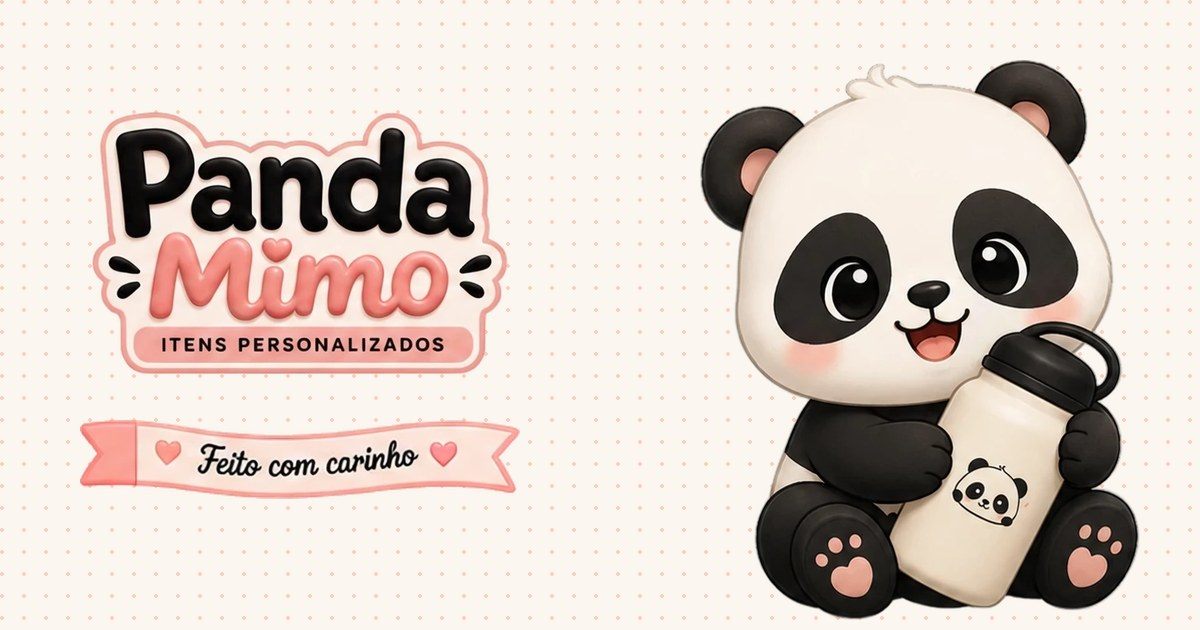
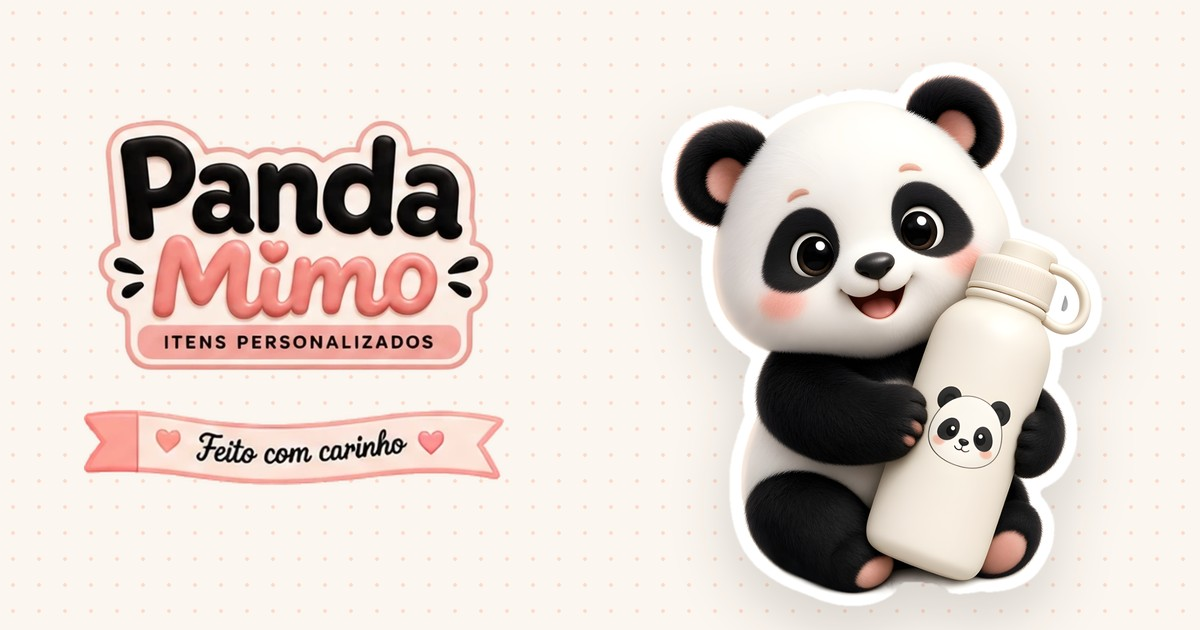
feat(marca): Pandinha em cena (3D) no hero, na imagem de compartilhamento e na 404
Seis poses do Pandinha 3D entram em marca/kit/pandinha-3d/ (PNG com alpha
real, lado maior 2000 px): fundo removido por segmentação, borda limpa e
ampliação Real-ESRGAN com o modelo de foto, que preserva o pelo. O hero do
site, o og.jpg e a página 404 passam a usar a versão em cena, conforme a
seção 6.5 do manual (versão 1.8). O hero adesivo anterior e o og anterior
(og-adesivo.jpg) continuam no acervo.

Claude-Session: https://claude.ai/code/session_01LUHnjXVrB14Zo46Cd7b8mY

Changed region(s): [[0.555, 0.0905, 0.9558, 0.9952], [0.0617, 0.181, 0.4317, 0.6032], [0.0617, 0.6333, 0.4317, 0.8143]]

diff --git a/panda-mimo/marca/index.html b/panda-mimo/marca/index.html
@@ -233,7 +233,7 @@
 <header class="capa">
   <div class="wrap capa__grid">
     <div>
-      <p class="eyebrow">Manual da marca · versão 1.7 · set/2026</p>
+      <p class="eyebrow">Manual da marca · versão 1.8 · set/2026</p>
       <h1>Panda Mimo, <span class="hand">feito com carinho.</span></h1>
       <p class="lede">Este é o brand book da Panda Mimo. Ele registra o que a marca é, como fala, como se veste e como se comporta em cada ponto de contato, a partir da identidade já aprovada e aplicada no site.</p>
       <p class="small muted" style="margin-top:.8rem">Quem manda, nesta ordem: o dono da marca, este manual, o código do site. A versão em texto, com todas as regras e tabelas, está em <code>MARCA.md</code>. Todas as diretrizes foram validadas pelo dono da marca em setembro de 2026.</p>
@@ -769,7 +769,7 @@
 <footer>
   <div class="wrap" style="display:flex;justify-content:space-between;gap:1rem;flex-wrap:wrap;align-items:center">
     <img src="../assets/logo-pill.webp" alt="Panda Mimo" width="900" height="254" style="width:150px">
-    <p>Manual da marca · versão 1.7 · setembro de 2026 · <span class="hand" style="font-size:1.15rem">feito com carinho, feito pra você.</span></p>
+    <p>Manual da marca · versão 1.8 · setembro de 2026 · <span class="hand" style="font-size:1.15rem">feito com carinho, feito pra você.</span></p>
   </div>
 </footer>
 

diff --git a/panda-mimo/index.html b/panda-mimo/index.html
@@ -108,7 +108,7 @@
         <img class="heart-img" src="assets/coracao-costura.webp" alt="" width="804" height="704" aria-hidden="true">
         <span class="heart heart--b" aria-hidden="true"></span>
         <span class="heart heart--c" aria-hidden="true"></span>
-        <img class="hero__mascot" src="assets/mascote-hero.webp" srcset="assets/mascote-hero.webp 1x, assets/mascote-hero@2x.webp 2x" alt="Mascote da Panda Mimo: um panda sorridente abraçando uma garrafa térmica personalizada" width="707" height="900" fetchpriority="high">
+        <img class="hero__mascot" src="assets/mascote-hero-3d.webp" srcset="assets/mascote-hero-3d.webp 1x, assets/mascote-hero-3d@2x.webp 2x" alt="Pandinha, o mascote da Panda Mimo, abraçando uma garrafa térmica personalizada" width="707" height="854" fetchpriority="high">
         <img class="hero__tag" src="assets/tag-especial.webp" alt="Etiqueta: feito especialmente para você!" width="482" height="900">
       </figure>
     </div>

diff --git a/panda-mimo/404.html b/panda-mimo/404.html
@@ -23,7 +23,7 @@
 <body>
 <main class="erro">
   <div>
-    <img src="https://reinaldo3010.github.io/Claude-desk/assets/panda-dormindo.webp" alt="Pandinha dormindo" width="900" height="562">
+    <img src="https://reinaldo3010.github.io/Claude-desk/assets/panda3d-dormindo.webp" srcset="https://reinaldo3010.github.io/Claude-desk/assets/panda3d-dormindo.webp 1x, https://reinaldo3010.github.io/Claude-desk/assets/panda3d-dormindo@2x.webp 2x" alt="Pandinha dormindo" width="900" height="655">
     <p class="eyebrow"><span class="eyebrow__dot"></span> Página não encontrada <span class="eyebrow__dot"></span></p>
     <h1>Essa página tirou <span class="hand">uma soneca.</span></h1>
     <p>O endereço não existe ou mudou de lugar. Volta pro início que a gente te mostra os mimos.</p>

diff --git a/panda-mimo/MARCA.md b/panda-mimo/MARCA.md
@@ -1,6 +1,6 @@
 # Manual da marca Panda Mimo
 
-Versão 1.7 · setembro de 2026 · documento vivo
+Versão 1.8 · setembro de 2026 · documento vivo
 
 Este é o brand book da **Panda Mimo**, marca de itens personalizados. Ele registra o que a marca é,
 como fala, como se veste e como se comporta em cada ponto de contato. Foi escrito a partir da
@@ -320,6 +320,21 @@ Regras dos dois planos:
    `panda3d-<pose>.png`. Xadrez desenhado na imagem não é transparência e não é aceito.
 6. No site, a versão 3D segue as mesmas regras de foto (10.1): inteiro, com folga, versão @2x.
 
+Poses em cena no acervo (`marca/kit/pandinha-3d/`, PNG com alpha, lado maior 2000 px):
+
+| Arquivo | Pose | Onde já aparece |
+|---|---|---|
+| `panda3d-garrafa.png` | abraçando a garrafa térmica | hero do site (`assets/mascote-hero-3d.webp`), imagem de compartilhamento |
+| `panda3d-dormindo.png` | dormindo, com contorno de adesivo | página 404 (`assets/panda3d-dormindo.webp`) |
+| `panda3d-coracao.png` | abraçando um coração | capa de Reel, story de agradecimento |
+| `panda3d-presente.png` | segurando a caixa de presente | campanhas de datas, story |
+| `panda3d-carrinho.png` | no carrinho de compras | campanha de pedido |
+| `panda3d-joinha.png` | em pé, fazendo joinha | story "prévia aprovada" |
+
+Os arquivos vieram do gerador com o xadrez de transparência pintado na imagem; o fundo foi removido
+por modelo de segmentação, a borda limpa e a imagem ampliada por Real-ESRGAN (modelo de foto, que
+preserva o pelo). O Pandinha adesivo do hero anterior (`mascote-hero.webp`) continua no acervo.
+
 ---
 
 ## 7. Cores
@@ -636,6 +651,7 @@ adereço pequeno no Pandinha em datas comemorativas, com aprovação prévia (6.
 | Data | Versão | O que mudou |
 |---|---|---|
 | set/2026 | 1.0 | Primeira edição, consolidando a identidade aplicada no site (paleta, tipografia, logo, mascote, tom de voz, aplicações, governança). |
+| set/2026 | 1.8 | Pandinha em cena aplicado: hero do site, imagem de compartilhamento e 404 com a versão 3D; seis poses em `marca/kit/pandinha-3d/`, com tabela de uso na 6.5. |
 | set/2026 | 1.7 | Dois planos do mascote (6.5): Pandinha adesivo segue como identidade e impressão; Pandinha em cena (3D de pelúcia) aprovado para hero, og, 404, Reel, story e campanhas, com lista fechada de lugares e regras de consistência. Pasta `marca/kit/pandinha-3d/`. |
 | set/2026 | 1.6 | Kit da marca (13.5): 56 ilustrações do site vetorizadas em `marca/kit/svg/`, fontes TTF, gerador de PNG e prompt de marca; regra de produção com IA (logo, Pandinha e texto nunca gerados); redesenho vetorial do logo entra nas pendências. |
 | set/2026 | 1.5 | Instagram (11.3): tamanhos por formato, área segura do Reel, destaques fixos, chamada única, regras de emoji e de preço, carrossel e Reel padrão; modelos editáveis no canvas "Instagram Panda Mimo". |

diff --git a/panda-mimo/marca/kit/pandinha-3d/LEIAME.md b/panda-mimo/marca/kit/pandinha-3d/LEIAME.md
@@ -8,3 +8,11 @@ Arquivos: `panda3d-<pose>.png`, PNG com canal alpha real, lado maior de pelo men
 Pandinha por imagem, sem texto nem marca desenhada. Xadrez desenhado na imagem não é transparência.
 Toda pose nova nasce com o Pandinha adesivo como imagem de referência (olho piscando, bochecha rosa,
 miolo rosa da orelha, almofadinhas rosa, paleta pêssego e creme).
+
+## Arquivos
+
+`panda3d-garrafa.png` (hero e imagem de compartilhamento) · `panda3d-dormindo.png` (404) ·
+`panda3d-coracao.png` · `panda3d-presente.png` · `panda3d-carrinho.png` · `panda3d-joinha.png`.
+Todos com lado maior de 2000 px, recortados ao conteúdo com 5% de folga, alpha real. Origem: imagens
+do gerador com xadrez pintado, fundo removido por segmentação (isnet/u2net), borda limpa e ampliação
+Real-ESRGAN (modelo de foto). Para o site, as versões WebP em 1x e 2x ficam em `assets/`.
